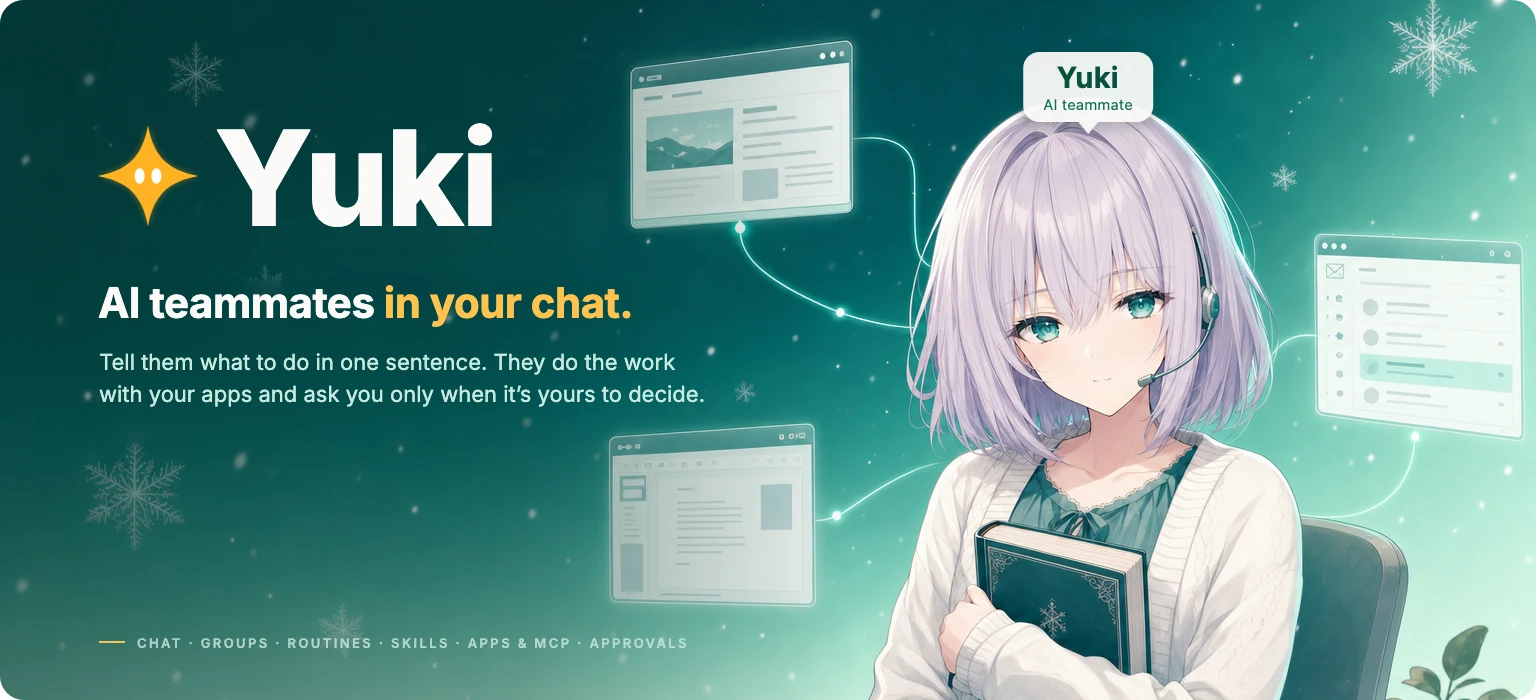
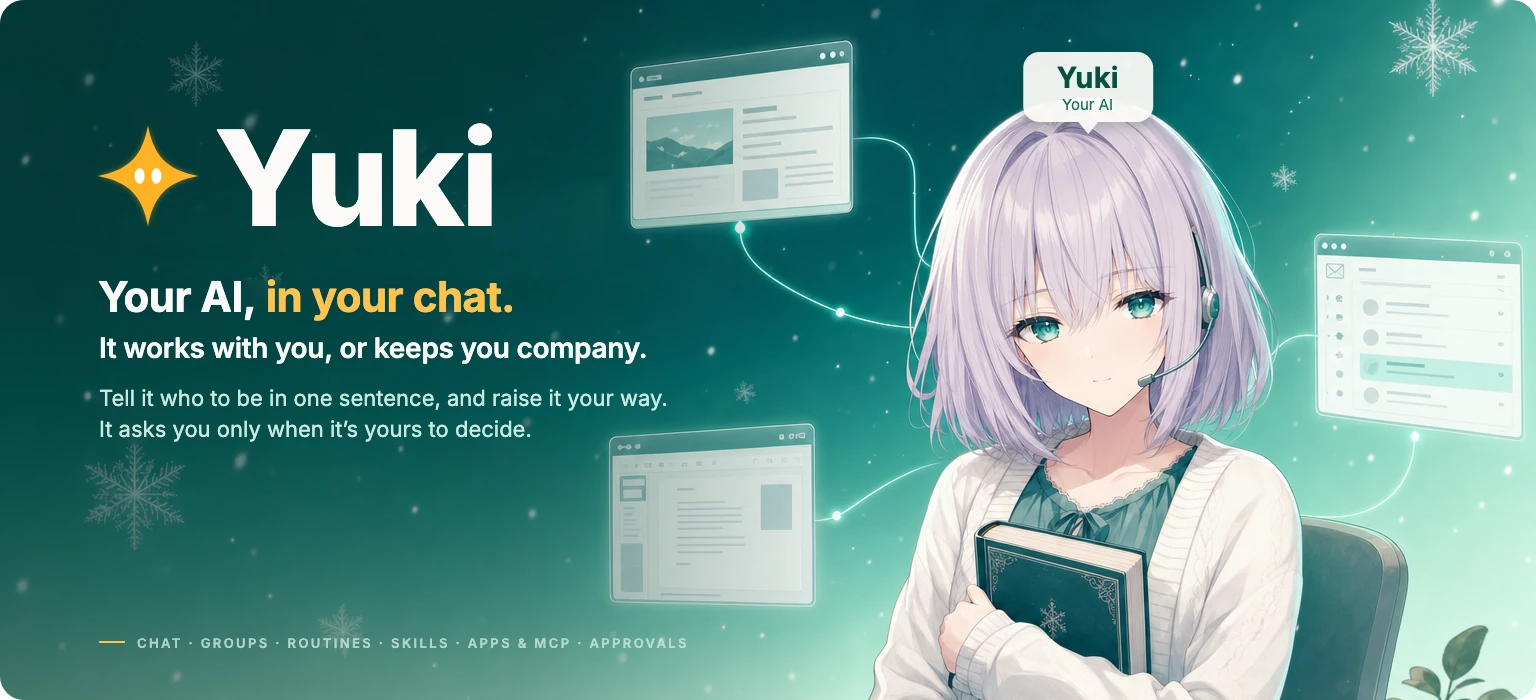
README: your AI in your chat, for work or company; and in Japanese
- The opening line and the banners say it the new way: Yuki works with you,
  or keeps you company. Tell it who to be in one sentence, then raise it your
  way. The name tag over Yuki says Your AI (你的 AI, あなたのAI).
- README.ja.md: the whole README in Japanese, with its own banner.
- Each README links to the other two: English, 简体中文, 日本語.

Changed region(s): [[0.0625, 0.39, 0.4688, 0.63], [0.6875, 0.12, 0.75, 0.18]]

diff --git a/README.ja.md b/README.ja.md
@@ -1,0 +1,161 @@
+<p align="center">
+  <a href="https://yukilab.si"><img src="assets/yuki/hero-ja.webp" width="100%" alt="Yuki — チャットに住む、あなたのAI。仕事を手伝い、そばにもいてくれる。ひとことで性格を決めて、「うちの子」に育てよう。決めるべきことだけ、あなたに聞きます。"></a>
+</p>
+
+<p align="center">
+  <a href="README.md">English</a> · <a href="README.zh-CN.md">简体中文</a> · <strong>日本語</strong>
+</p>
+
+<p align="center">
+  <strong><a href="https://yukilab.si">yukilab.si で試す</a></strong> &nbsp;·&nbsp; <a href="#クイックスタート">自分で動かす</a> &nbsp;·&nbsp; <a href="#yuki-にできること">できること</a> &nbsp;·&nbsp; <a href="#コア版とホスト版">コア版とホスト版</a>
+</p>
+
+Yuki は**チャットに住む、あなたのAI。仕事を手伝い、そばにもいてくれます**。開けば、もう Yuki がいます。どんな子にするかはひとことで決めて、あとはあなたのペースで育ててください。手が足りなければメンバーを増やしてグループに入れると、会話の中で仕事を引き継ぎ合います。判断が必要なときだけあなたに聞き、あなたが OK するまで、あなたの名前で何かを送ることはありません。
+
+このリポジトリは Yuki のソース公開コアです。ひとり用で、あなた自身のマシンで動き、Yuki コミュニティライセンスで公開しています。
+
+<picture>
+  <source media="(prefers-color-scheme: dark)" srcset="assets/yuki/chat-dark.svg">
+  <img alt="Yuki の会話：ひとことで作ったルーティンと、送信待ちのメール下書き" src="assets/yuki/chat-light.svg" width="100%">
+</picture>
+
+## Yuki にできること
+
+<table>
+<tr>
+<td width="50%" valign="top">
+
+**設定画面はいらない、話すだけ**<br>
+設定フォームはありません。最初に話したことが、そのメンバーの役割になります。変えたいときも、そう伝えるだけ。
+
+</td>
+<td width="50%" valign="top">
+
+**メンバーとグループ**<br>
+グループは 2〜6 人。`@` でメンバー、グループ、ルーティン、アプリを呼べます。引き継ぎは会話の中で行われ、あなたにも見えます。
+
+</td>
+</tr>
+<tr>
+<td valign="top">
+
+**ルーティン**<br>
+「平日の朝 9 時に…」「メールが届いたら…」。メンバーのカードから一時停止・テスト・編集ができます。新しいことがなければ、静かにしています。
+
+</td>
+<td valign="top">
+
+**スキル**<br>
+やり方をひとことで保存できます。いま一緒にやったことから、Yuki に覚えさせることもできます。
+
+</td>
+</tr>
+<tr>
+<td valign="top">
+
+**アプリと MCP**<br>
+Gmail、Google カレンダー、自分のメールボックス、Slack、そしてあなたのマシン上のものも含むあらゆる MCP サーバー。一度つなげば、すべてのメンバーが使えます。
+
+</td>
+<td valign="top">
+
+**大事なことは、あなたが承認**<br>
+今回だけ許可、常に許可、拒否。メールと Slack のメッセージは、あなたが送信を押すまで下書きのまま。アクション審査が、あなた自身のルールで一歩ずつ確認します。
+
+</td>
+</tr>
+</table>
+
+会話はあなた自身のデータベース（内蔵の PGlite、またはあなたの Postgres）に保存されます。秘密情報はあなた自身の鍵で封をされ、モデルに見せることはありません。
+
+## コア版とホスト版
+
+|  | コア版（このリポジトリ） | [ホスト版](https://yukilab.si) |
+|:--|:--|:--|
+| チャット、メンバー、グループ、ルーティン、スキル、アプリ、承認 | ✓ | ✓ |
+| メンバーが作業するパソコン | ✓ 専用コンテナ、あなたのマシン上 | 近日公開：クラウドのパソコン |
+| チームと共有スペース | — | 近日公開 |
+
+エンジンには以前の設計（デスクトップアカウント）のコードが一部残っていますが、アプリからはもう使われていません。今後のリリースで取り除きます。
+
+---
+
+## クイックスタート
+
+Node 22 以上と pnpm 11、それにモデル提供元（OpenAI、Anthropic、Google のいずれか）の API キーが必要です。
+
+```sh
+git clone https://github.com/caspianchan31/yuki.git
+cd yuki
+pnpm install
+pnpm --dir apps/web install
+cp .env.example .env
+```
+
+自分専用の鍵を 2 つ作り、リポジトリの外に置きます：
+
+```sh
+mkdir -p ~/.yuki
+openssl rand -base64 32 > ~/.yuki/credential.key && chmod 600 ~/.yuki/credential.key
+openssl rand -base64 32   # 下の TOKEN_ENCRYPTION_KEY に貼り付け
+```
+
+`.env` に次を設定します：
+
+```sh
+WORKSPACE_MODE=live
+AGENT_BACKEND=model
+MODEL=openai/gpt-5            # または anthropic/<model>、google/<model>
+OPENAI_API_KEY=sk-...         # そのモデル提供元のキー（ANTHROPIC_API_KEY、GOOGLE_API_KEY）
+TOKEN_ENCRYPTION_KEY=...      # 上で表示された値
+CREDENTIAL_KEY_FILE=/Users/you/.yuki/credential.key   # そのファイルのフルパス
+```
+
+API とアプリを、2 つのターミナルで起動します：
+
+```sh
+pnpm dev                      # API: http://localhost:8787
+pnpm --dir apps/web dev       # アプリ: http://localhost:5173
+```
+
+http://localhost:5173 を開きます。初回は、ユーザー名、パスワード、そして API のターミナルに表示されたセットアップコードでアカウントを作ります。あとは Yuki に話しかけてみてください。
+
+モデルのキーがなくても、`cp .env.example .env` だけで、架空のデータと台本どおりに答える Yuki のサンプルワークスペースが起動します。
+
+### docker compose で動かす（専用パソコン付き）
+
+コマンドひとつで、Yuki のサービスと、別の**パソコン**コンテナが起動します。メンバーはそこでコマンドを実行し、ファイルを置き、ウェブを見ます。作業はそのパソコンの中だけで、あなたのマシンには触れません。画面をリアルタイムで見たり、操作を引き継いで返したりでき、誰も使っていないときは自動で一時停止します。Compose プラグイン付きの Docker と、約 3 GB の空きメモリが必要です。
+
+```sh
+cp .env.example .env
+# .env を編集：MODEL、モデル提供元の API キー、OPENMUSE_ADMIN_USERNAME と OPENMUSE_ADMIN_PASSWORD
+docker compose up -d --build   # そのあと http://localhost:8787 を開く
+```
+
+メモリ上限、ポート、一時停止までの時間は `.env` で変えられます。詳細、制限、データの置き場所は [docs/computer-container.md](docs/computer-container.md)（英語）をご覧ください。
+
+### アプリをつなぐ
+
+アプリの画面表示は、現在中国語です。かっこ内は日本語訳です。
+
+- **MCP サーバー**：设置（設定）→ 连接的应用（連携アプリ）→ 添加自定义 MCP 服务（カスタム MCP サービスを追加）で、サーバーのアドレスと、必要ならアクセストークンを入力します。あなたのマシンやネットワーク上のサーバー（`http://localhost:…`）も使えます。
+- **自分のメールボックス**：⌘K → 凭据（認証情報）→ 添加发信邮箱（送信用メールを追加）。SMTP、受信もするなら IMAP を設定します。
+- **Gmail と Google カレンダー**：Google OAuth のウェブクライアントを作り、`GOOGLE_CLIENT_ID` と `GOOGLE_CLIENT_SECRET` を設定し、リダイレクト URI に `http://localhost:8787/api/google/callback` を登録します。
+- **Slack**：自分の Slack アプリを作り、`SLACK_CLIENT_ID` と `SLACK_CLIENT_SECRET` を設定します。手順はすぐ下にあります。
+
+<details>
+<summary><b>Slack をつなぐ手順</b></summary>
+
+Slack には自分のアプリが必要です（作るのは一度だけ）。その後、设置 → 连接的应用 → Slack → 连接（接続）を押すと Slack に移動し、許可すると接続済みの状態で戻ってきます。
+
+1. <https://api.slack.com/apps> を開き、**Create New App** → **From scratch**。名前を付けて、ワークスペースを選びます。
+2. **OAuth & Permissions** → **Redirect URLs** に `<PUBLIC_API_URL>/api/slack/callback`（ローカルなら `http://localhost:8787/api/slack/callback`）を追加して保存します。
+3. 同じページの **Bot Token Scopes** に、`channels:read`、`groups:read`、`channels:history`、`groups:history`、`users:read`、`chat:write`、`chat:write.public` を追加します。
+4. **Basic Information** で **Client ID** と **Client Secret** をコピーし、`.env` の `SLACK_CLIENT_ID` と `SLACK_CLIENT_SECRET` に設定します。`TOKEN_ENCRYPTION_KEY` も設定されているか確認して、再起動します。
+5. Slack で、読ませたいチャンネルごとにアプリを招待します（`/invite @your-app`）。参加しているチャンネルしか読めません。メンバーは読んで下書きを作るだけで、メッセージはあなたが送信を押したときにだけ送られます。
+
+</details>
+
+## ライセンス
+
+[Yuki コミュニティライセンス 1.0](LICENSE)（本文は英語）：自分や自分の組織の中で使う、改変する、動かすのは自由です。他の人向けにホスティングサービスとして提供することはできません。各バージョンは公開から 2 年後に MIT ライセンスになります。サードパーティの表記：[THIRD_PARTY_NOTICES.md](THIRD_PARTY_NOTICES.md)。

diff --git a/README.md b/README.md
@@ -1,16 +1,16 @@
 <p align="center">
-  <a href="https://yukilab.si"><img src="assets/yuki/hero-en.webp" width="100%" alt="Yuki — AI teammates in your chat. Tell them what to do in one sentence. They do the work with your apps and ask you only when it's yours to decide."></a>
+  <a href="https://yukilab.si"><img src="assets/yuki/hero-en.webp" width="100%" alt="Yuki — your AI, in your chat. It works with you, or keeps you company. Tell it who to be in one sentence, and raise it your way. It asks you only when it's yours to decide."></a>
 </p>
 
 <p align="center">
-  <strong>English</strong> · <a href="README.zh-CN.md">简体中文</a>
+  <strong>English</strong> · <a href="README.zh-CN.md">简体中文</a> · <a href="README.ja.md">日本語</a>
 </p>
 
 <p align="center">
   <strong><a href="https://yukilab.si">Try it at yukilab.si</a></strong> &nbsp;·&nbsp; <a href="#quick-start">Run it yourself</a> &nbsp;·&nbsp; <a href="#what-yuki-does">What it does</a> &nbsp;·&nbsp; <a href="#core-and-hosted">Core and hosted</a>
 </p>
 
-Yuki is an **AI teammate that lives in a chat**. Open it and Yuki is already there: tell it what you need in one sentence. Add more teammates when you want help, put them in a group, and they hand work to each other in the open. When something needs a decision, they come to you; nothing goes out in your name until you say so.
+Yuki is **your AI, in your chat: it works with you, or keeps you company**. Open it and Yuki is already there: tell it who to be in one sentence, then raise it your way. Add more teammates when you want help, put them in a group, and they hand work to each other in the open. When something needs a decision, they come to you; nothing goes out in your name until you say so.
 
 This repository is Yuki's source-available core: single-user, running on your own machine, under the Yuki Community License.
 

diff --git a/README.zh-CN.md b/README.zh-CN.md
@@ -1,16 +1,16 @@
 <p align="center">
-  <a href="https://yukilab.si"><img src="assets/yuki/hero-zh.webp" width="100%" alt="Yuki：聊天里的 AI 同事。一句话交代，它们用你的应用把活干完；只有该你拍板的事，才来问你。"></a>
+  <a href="https://yukilab.si"><img src="assets/yuki/hero-zh.webp" width="100%" alt="Yuki：住在聊天里的 AI，能帮你干活，也能陪着你。一句话告诉它做谁，越养越懂你；只有该你拍板的事，才来问你。"></a>
 </p>
 
 <p align="center">
-  <a href="README.md">English</a> · <strong>简体中文</strong>
+  <a href="README.md">English</a> · <strong>简体中文</strong> · <a href="README.ja.md">日本語</a>
 </p>
 
 <p align="center">
   <strong><a href="https://yukilab.si">在 yukilab.si 试用</a></strong> &nbsp;·&nbsp; <a href="#快速上手">自己部署</a> &nbsp;·&nbsp; <a href="#yuki-能做什么">能做什么</a> &nbsp;·&nbsp; <a href="#核心版和托管版">核心版和托管版</a>
 </p>
 
-Yuki 是**聊天里的 AI 同事**。打开就有 Yuki，第一句话告诉它做什么。需要帮手就加成员，拉进群里，它们在对话里互相交接。要你拍板时才来找你；没有你点头，不会以你的名义发出任何东西。
+Yuki 是**住在聊天里的 AI，能帮你干活，也能陪着你**。打开就有 Yuki，一句话告诉它做谁，越养越懂你。需要帮手就加成员，拉进群里，它们在对话里互相交接。要你拍板时才来找你；没有你点头，不会以你的名义发出任何东西。
 
 这个仓库是 Yuki 的源码公开核心：单用户，跑在你自己的电脑上，采用 Yuki 社区许可证。
 
